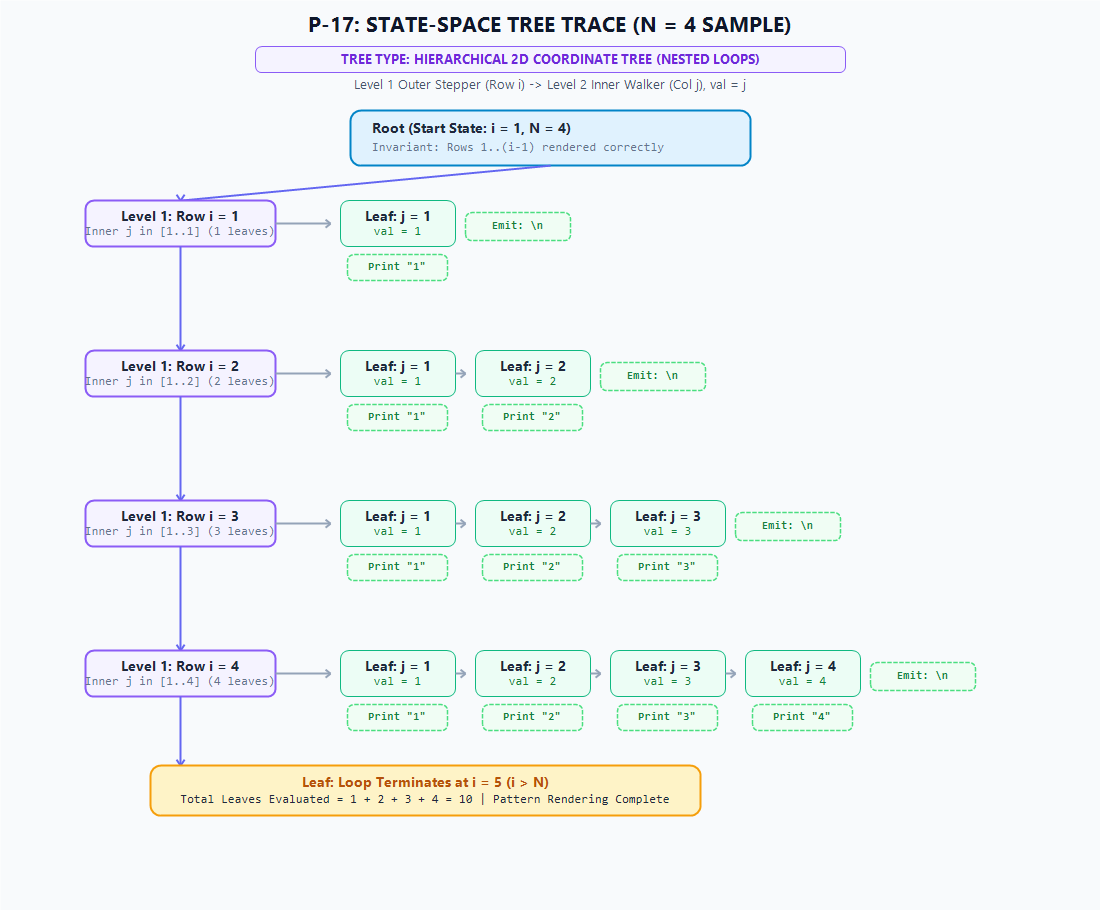
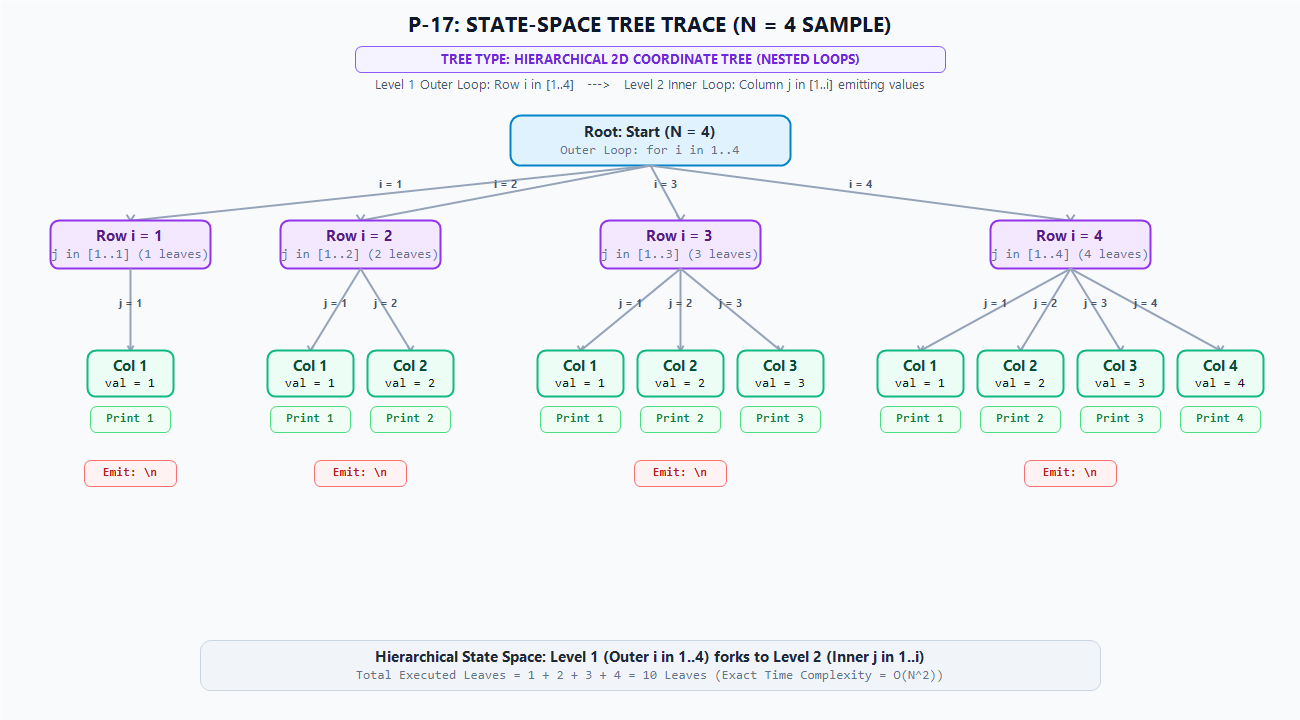
Redesign P-17 state-space tree diagram to true 2D top-down hierarchical tree

diff --git a/chat.md b/chat.md
@@ -1540,3 +1540,28 @@ This document records all instructions, architectural decisions, and agent conve
    - In [`Solution formating.md`](Skills_Output/ProblemSkill_output/Solution%20Files/Solution%20formating.md): Mandated that all future solution state-space trees must explicitly declare their tree type both inside the diagram and in the Phase 2 markdown section.
 4. **Git Synchronization**:
    - Committed and synchronized all changes with GitHub `origin/main`.
+
+
+---
+
+## Session 80: Redesign P-17 State-Space Tree to True 2D Hierarchical Tree Structure
+
+### User Request
+> "the tree you draw for P-17 doest even look like binary. please fix thedesing of the tree make it look 2d"
+
+### Actions Taken & Implementation Summary
+1. **Redesigned [`P-17_state_space_tree.png`](Skills_Output/ProblemSkill_output/Solution%20Files/Repetitive%20Structures/Pattern%20Printing/P-17/P-17_state_space_tree.png) with True 2D Tree Layout**:
+   - Replaced the vertical spine representation with a **true top-down, multi-branching 2D tree diagram** ($1300 \times 720$ px):
+     - **Level 0 (Root)**: Placed at the top center representing `Root: Start (N = 4)`.
+     - **Level 1 (Outer Rows)**: Branches horizontally outward into 4 distinct row nodes across the canvas (`Row i = 1`, `Row i = 2`, `Row i = 3`, `Row i = 4`) with explicit edge labels `i = 1..4`.
+     - **Level 2 (Inner Columns / Leaves)**: Each row node branches downward into its allowed column leaves:
+       - Row 1 branches into 1 leaf (`Col 1: val = 1`).
+       - Row 2 branches into 2 leaves (`Col 1`, `Col 2`).
+       - Row 3 branches into 3 leaves (`Col 1`, `Col 2`, `Col 3`).
+       - Row 4 branches into 4 leaves (`Col 1`, `Col 2`, `Col 3`, `Col 4`).
+     - **Action Badges**: Each column leaf has an attached `Print <j>` action, followed by a row newline emission `Emit: \n`.
+     - **Footer Summary Card**: Shows total leaves $= 1 + 2 + 3 + 4 = 10 \implies \mathcal{O}(N^2)$ complexity.
+2. **Updated Derivation Description**:
+   - In [`P-17_derivation.md`](Skills_Output/ProblemSkill_output/Solution%20Files/Repetitive%20Structures/Pattern%20Printing/P-17/P-17_derivation.md), updated the Phase 2 topology breakdown detailing Level 0 (Root), Level 1 (horizontal row branching), and Level 2 (vertical column leaves).
+3. **Git Synchronization**:
+   - Committed and synchronized all changes with GitHub `origin/main`.

diff --git a/Skills_Output/ProblemSkill_output/Solution Files/Repetitive Structures/Pattern Printing/P-17/P-17_derivation.md b/Skills_Output/ProblemSkill_output/Solution Files/Repetitive Structures/Pattern Printing/P-17/P-17_derivation.md
@@ -70,8 +70,11 @@ $$\text{State} = (i, j)$$
 
 ### 2. State-Space Tree Diagram (Trace for $N = 4$)
 - **Tree Type**: **Hierarchical 2D Coordinate Tree (Nested Loops)**
-- **Branching Factor**: Variable branching from parent row node $i$ to $i$ inner column children ($j \in [1, i]$).
-- **Topology**: Level 1 represents outer row steps ($i \in [1, N]$); Level 2 represents inner column leaf evaluations emitting values and row termination newlines.
+- **Branching Factor**: Multi-branching from Root to $N$ row nodes ($i \in [1, 4]$), and dependent branching from each row node $i$ to $i$ column children ($j \in [1, i]$).
+- **Topology**: True 2D top-down hierarchical tree:
+  - **Level 0 (Root)**: Top-center starting state ($N = 4$).
+  - **Level 1 (Row Steppers)**: Horizontal spread of 4 outer row nodes ($i = 1, 2, 3, 4$).
+  - **Level 2 (Column Walkers / Leaves)**: Downward branching from each row node into its respective column leaves ($1$ leaf under row 1, $2$ under row 2, $3$ under row 3, $4$ under row 4), each emitting its printed value and newline.
 
 ![P-17 State-Space Tree Trace](P-17_state_space_tree.png)
 
